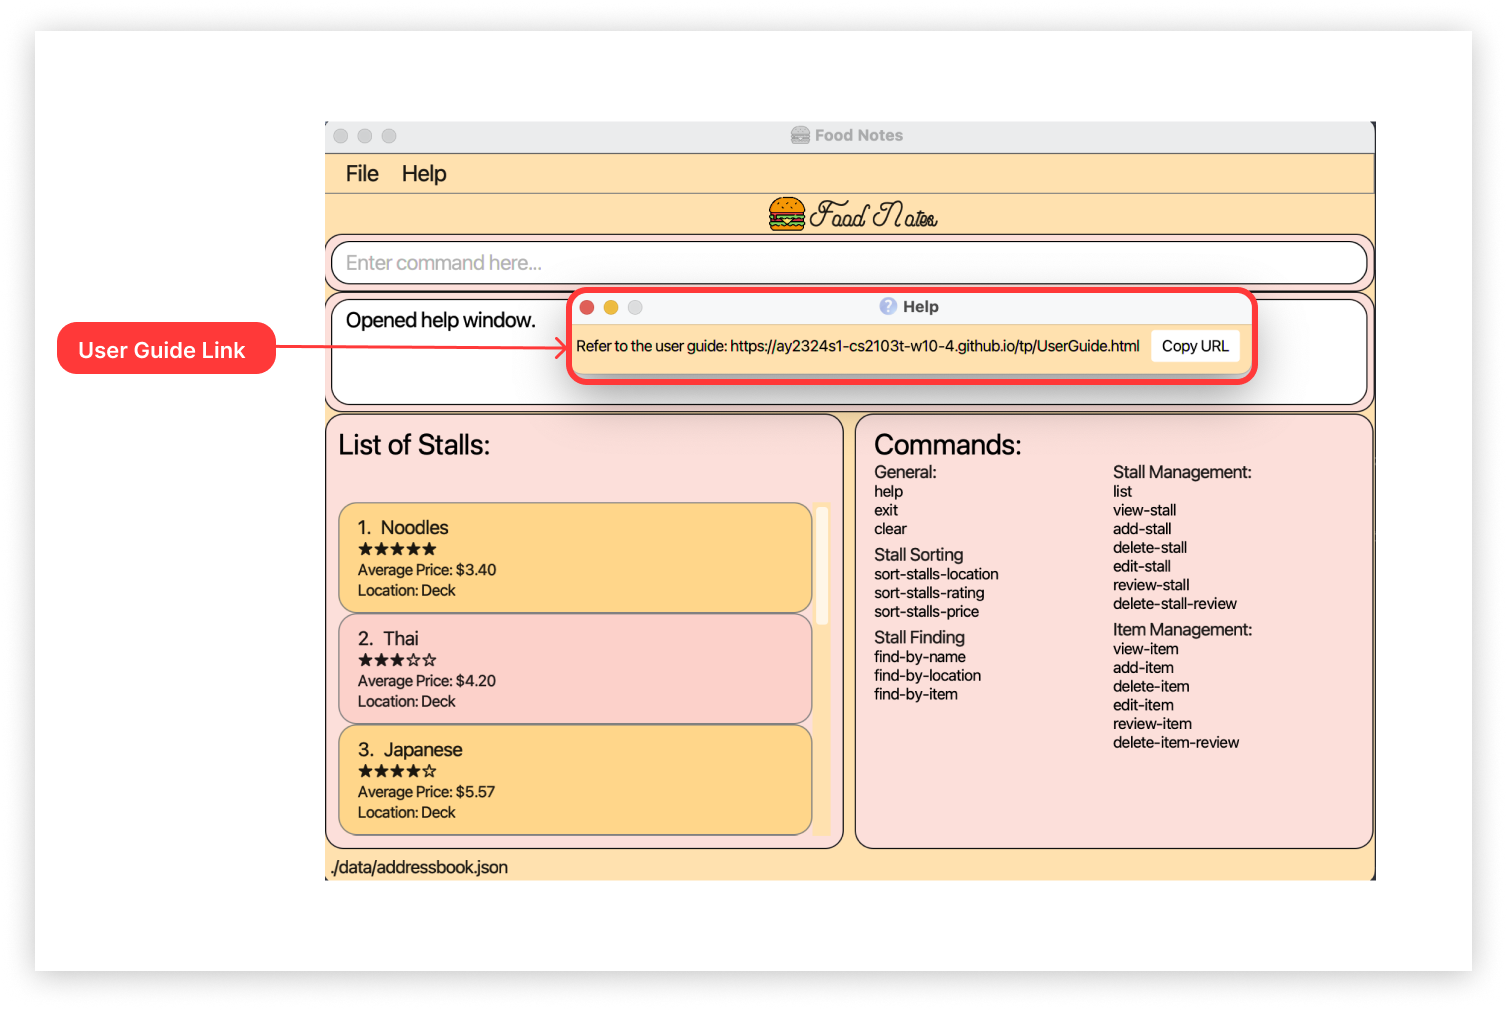
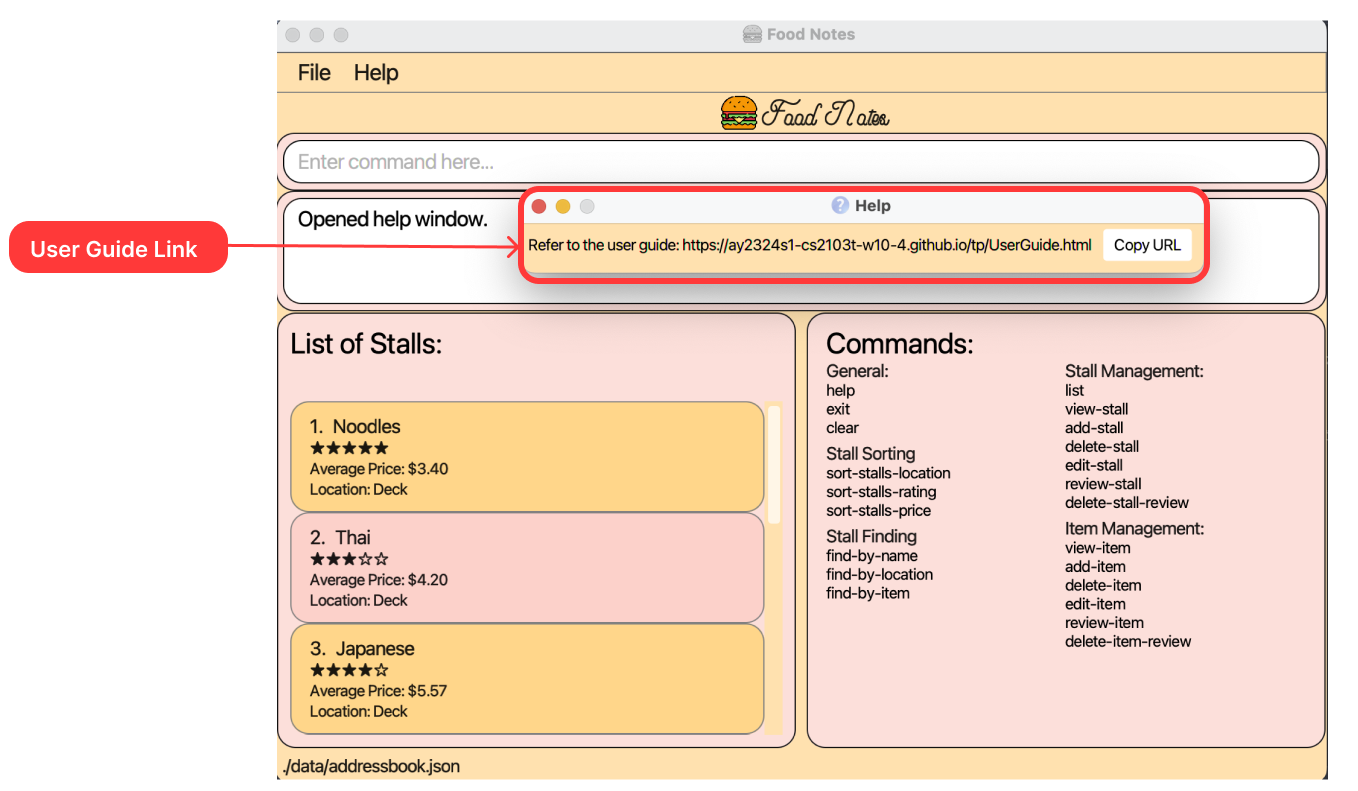
edit screenshot

diff --git a/docs/UserGuide.md b/docs/UserGuide.md
@@ -178,7 +178,7 @@ Positive integers are whole numbers greater than zero, e.g. 1, 2, 3, 4, 5, etc.
 
 4. Open a command terminal, `cd` into the folder you put the jar file in, and use the `java -jar foodnotes.jar` command to run the application.<br>
    A GUI similar to the screenshot below should appear in a few seconds. Note how the app contains some sample data.<br>
-   ![SampleData](images/sampledata.png)
+   ![PreloadedStalls](images/preloadedStalls.png)
 
 5. Type the command in the _Command Box_ and press Enter to execute it. e.g. typing `help` and pressing Enter will open the help window.<br>
    Some example commands you can try:
